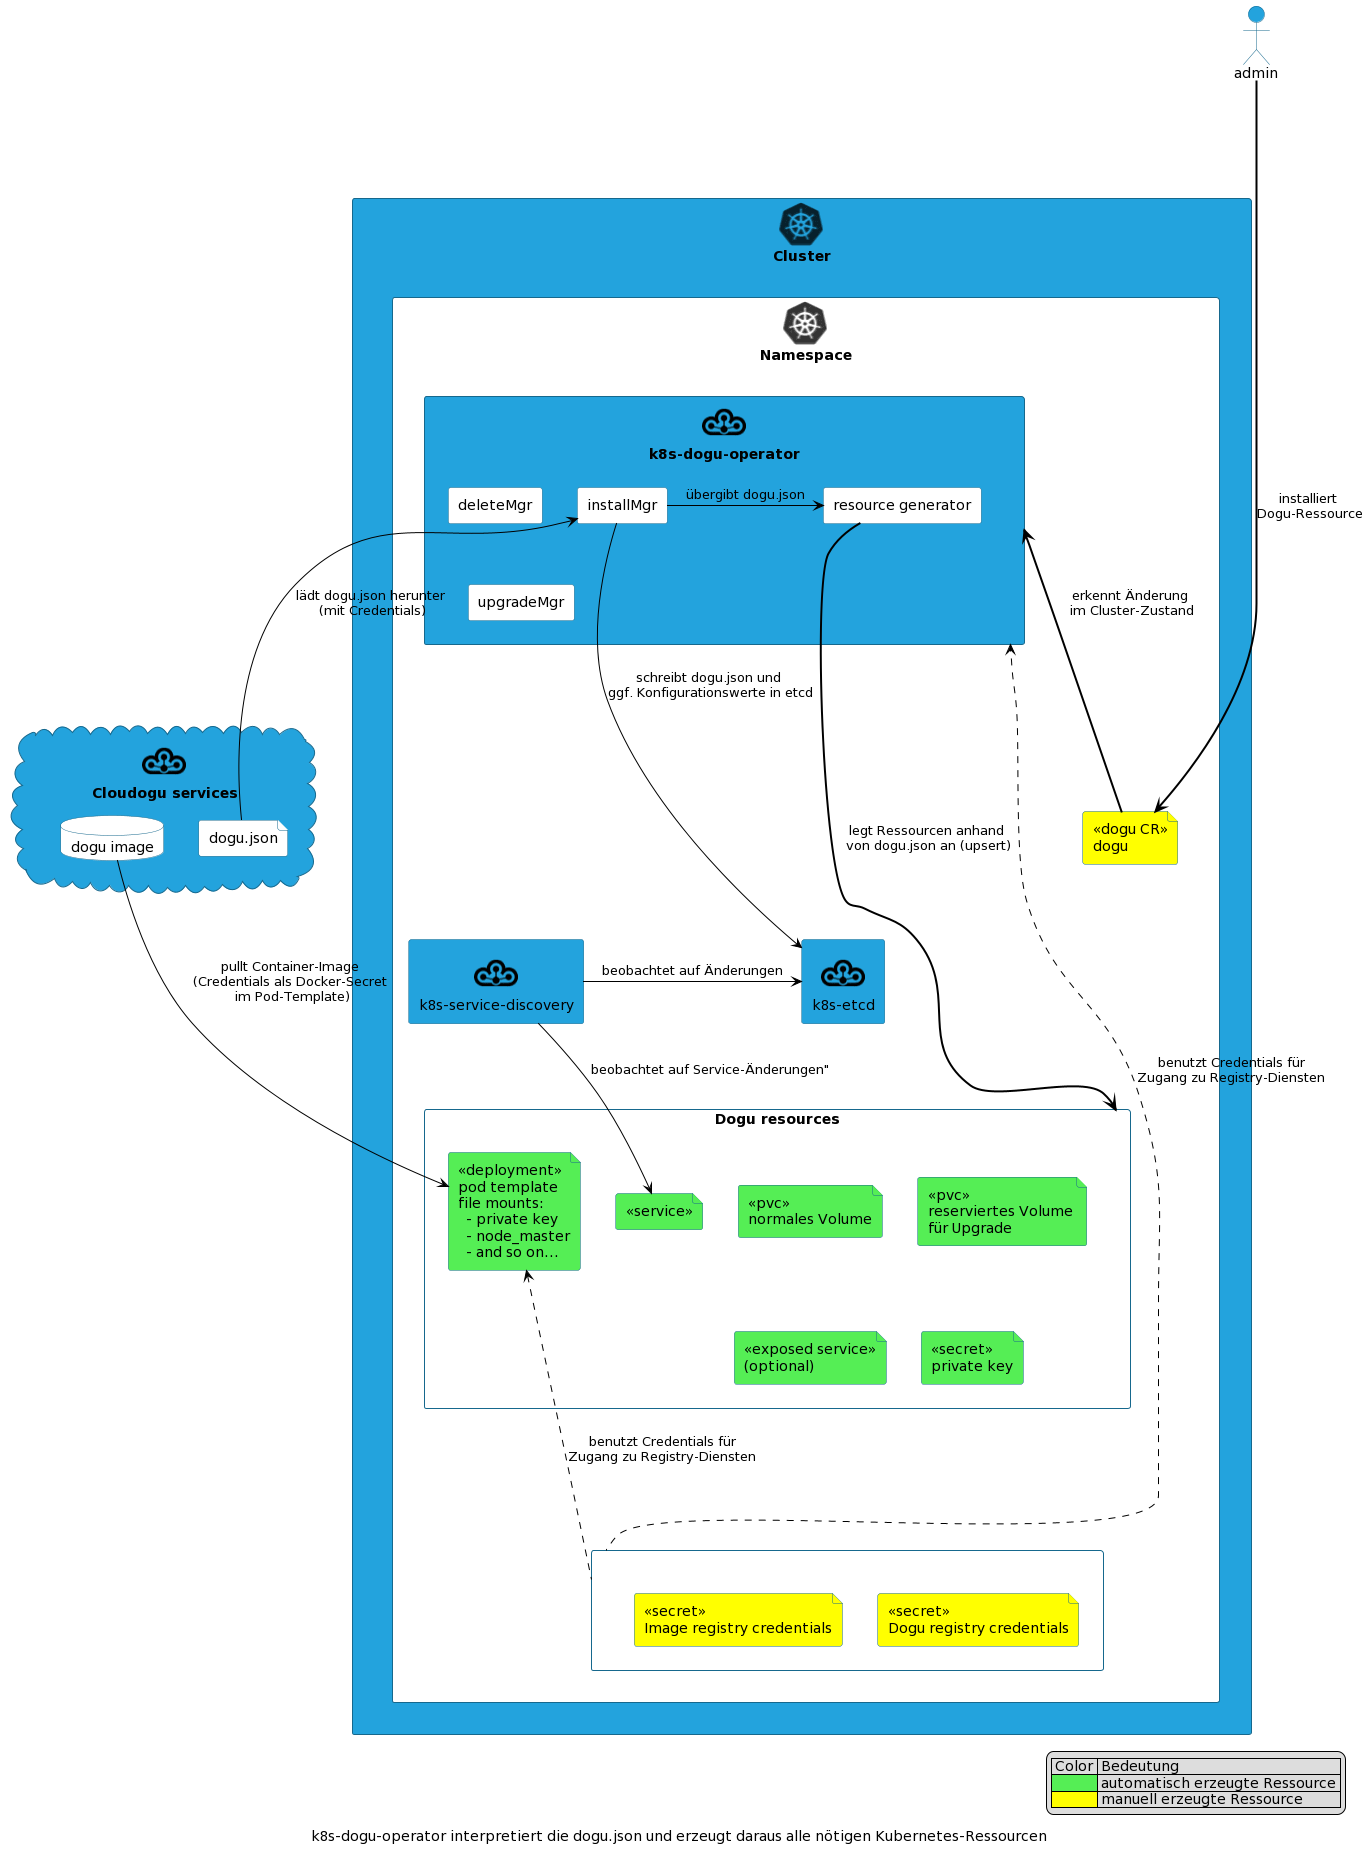
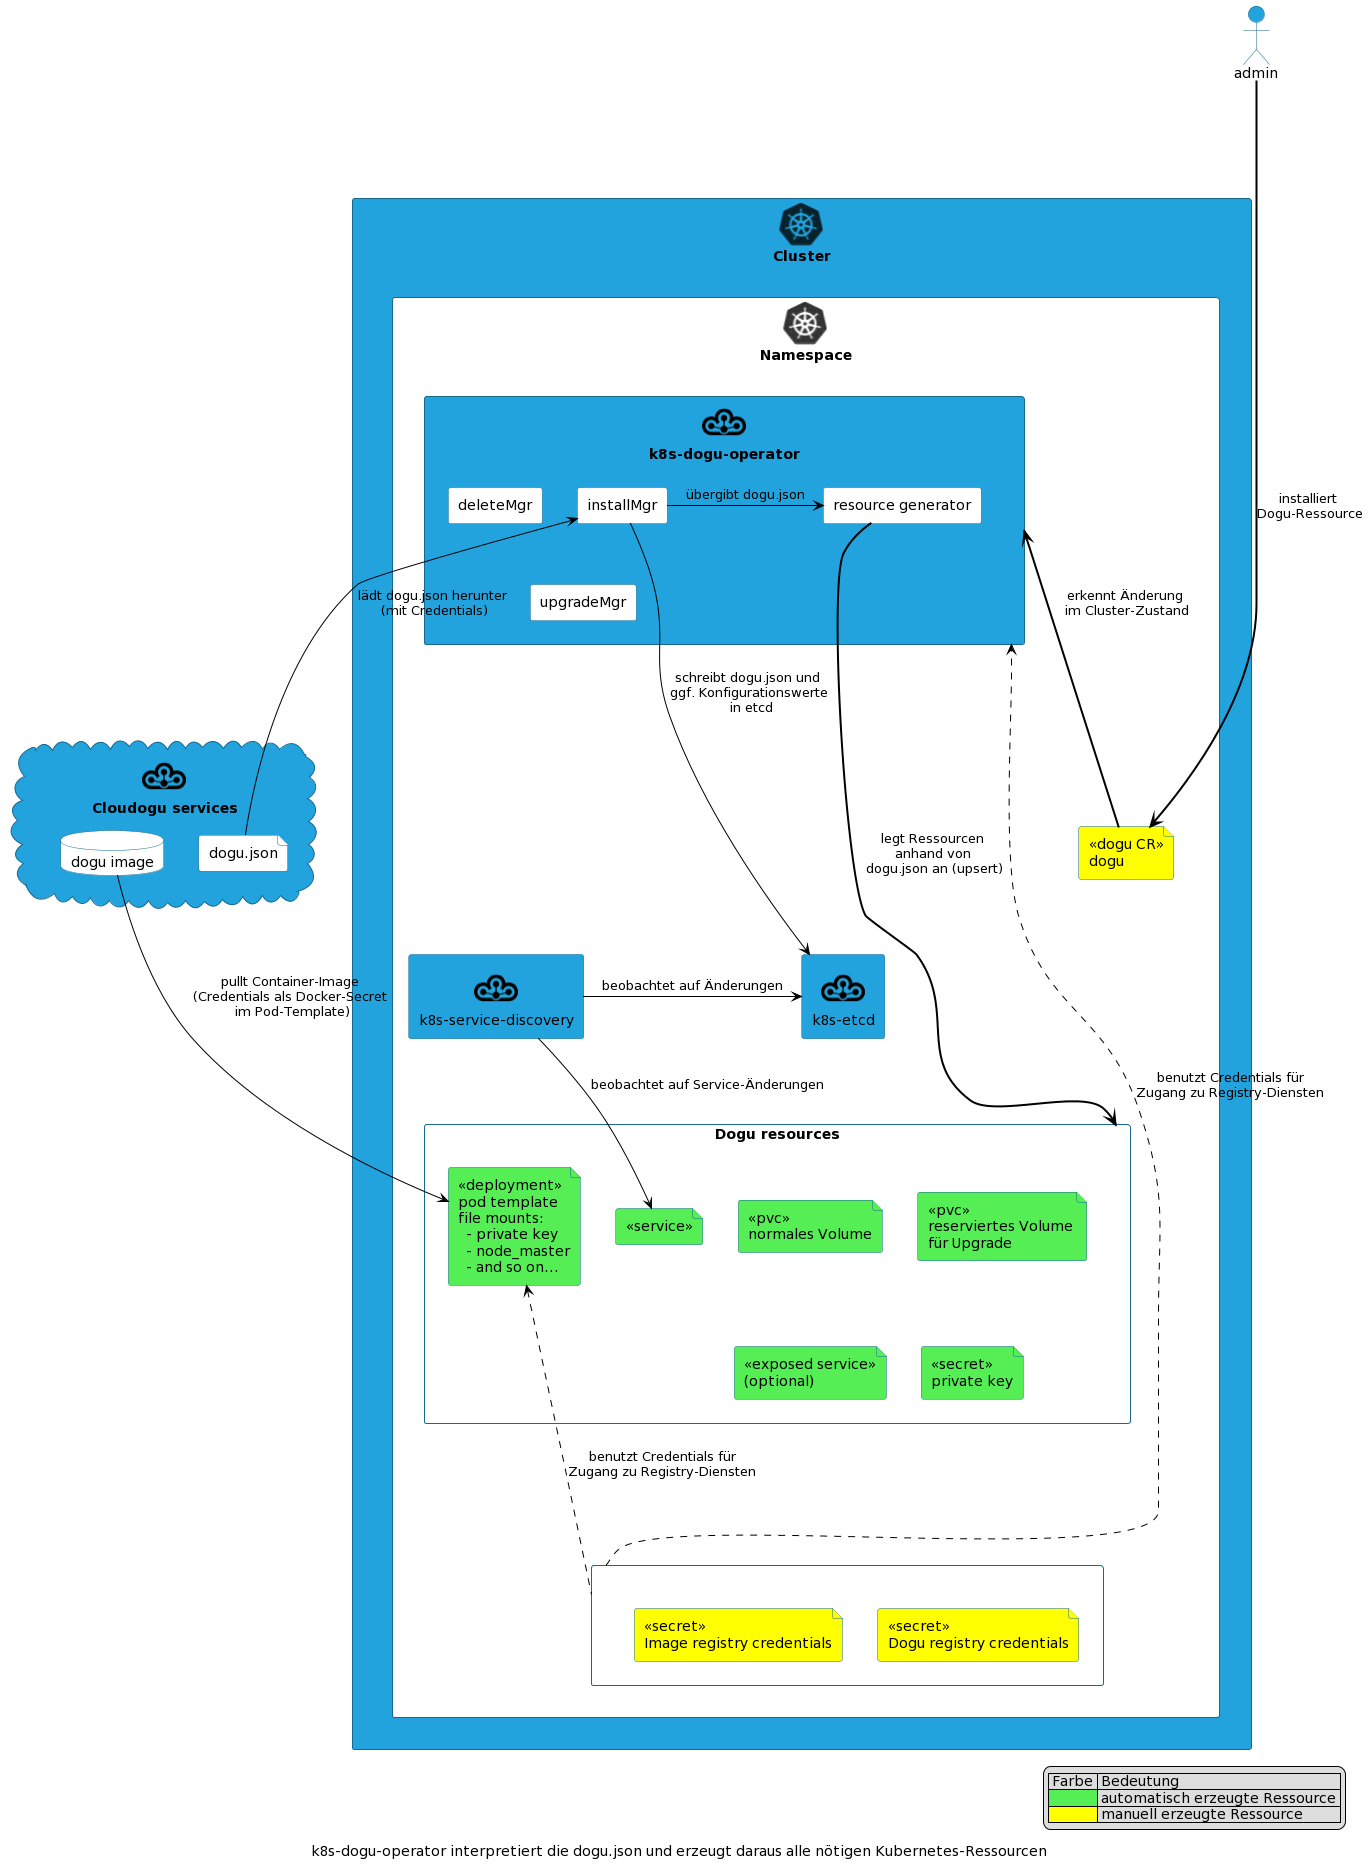
Translate architecture overview to english

diff --git a/docs/operations/k8s-ces-architecture-overview_en.md b/docs/operations/k8s-ces-architecture-overview_en.md
@@ -1,0 +1,89 @@
+# Cloudogu EcoSystem in a Kubernetes cluster.
+
+When developing the multi-node variant of the Cloudogu EcoSystem, Cloudogu basically ensures backwards compatibility with regard to customer data. This means that the majority of Dogus and its data can be run in the same way as in a [single-node Cloudogu EcoSystem](https://github.com/cloudogu/ecosystem).
+
+Since both platforms differ, especially in terms of their technical implementation, this means that the same functionalities in Kubernetes are implemented using platform-specific means. This document describes similarities and peculiarities between multi-node Cloudogu EcoSystems and the single-node variant.
+
+## Similarities
+
+The single- and multi-node variants of Cloudogu EcoSystems share these structural functionalities:
+
+- Dogu applications run as Docker containers
+- [`dogu.json`](https://github.com/cloudogu/dogu-development-docs/blob/main/docs/core/compendium_en.md) describes necessary dependencies and the inner structure of a Dogu application
+- The basic access to the local EcoSystem registry as well as its content structure does not change
+- The setup allows an "unattended" installation using [`setup.json`](https://docs.cloudogu.com/de/docs/system-components/ces-setup/operations/setup-json/)
+
+## Overview of Kubernetes-specific components
+
+The following Kubernetes components are used in the Kubernetes Cloudogu EcoSystem:
+
+- [k8s-ces-setup](https://github.com/cloudogu/k8s-ces-setup)
+  - the Kubernetes-specific variant of `ces-setup` provides a basic installation of a Cloudogu EcoSystem using the components mentioned here
+- [k8s-dogu-operator](https://github.com/cloudogu/k8s-dogu-operator)
+  - manages Dogus in terms of their installation, updating, uninstallation and some more
+- [k8s-service-discovery](https://github.com/cloudogu/k8s-service-discovery)
+  - manages Dogus in terms of their accessibility in the Warp menu and the Cloudogu EcoSystem Registry
+  - manages TLS certificates of the Cloudogu EcoSystem
+- [k8s-component-operator](https://github.com/cloudogu/k8s-component-operator)
+  - manages K8s CES components in terms of their installation, update and uninstallation.
+- [k8s-etcd](https://github.com/cloudogu/k8s-etcd)
+  - provides the local Cloudogu EcoSystem registry
+- [k8s-ces-control](https://github.com/cloudogu/k8s-ces-control)
+  - provides protected access to administration operations with the Admin-Dogu
+- [k8s-host-change](https://github.com/cloudogu/k8s-host-change)
+  - controls an orderly change of FQDN or public IP address of the cluster
+- [k8s-longhorn](https://github.com/cloudogu/k8s-longhorn)
+  - provides cross-node storage replication to all dogus with state
+
+![PlantUML diagram: Kubernetes cluster with a Dogu selection and important CES components](figures/k8s-ces-overview-components_en.png "Kubernetes cluster with a Dogu selection and important CES components").
+
+Conversely, this means that these components cannot be used in the single-node Cloudogu EcoSystem (see the "Operating System Packages" chapter).
+
+## Setup process in a Kubernetes cluster.
+
+Due to the peculiarities of Kubernetes, the setup process differs from that of the single-node EcoSystem. In summary, it is very resource-oriented and some things have to be deployed manually by the administrators. The documentation of [`k8s-ces-setup` describes](https://github.com/cloudogu/k8s-ces-setup/blob/develop/docs/operations/installation_guide_en.md) this in more detail.
+
+The following diagram illustrates the process and involved components:
+
+![PlantUML diagram: k8s-ces-setup initializes the cluster, enabling a Cloudogu EcoSystem in Kubernetes](figures/k8s-ces-overview-setup_en.png
+"k8s-ces-setup initializes the cluster, enabling a Cloudogu EcoSystem in Kubernetes.")
+
+## Installing Dogus in a Kubernetes cluster.
+
+Against the backdrop of Kubernetes, not only the setup process changes. Most of the internal processes are subject to significant changes compared to the single-node EcoSystem. Therefore, the Dogu client `cesapp` can no longer be merged with Kubernetes. In its place is now the `k8s-dogu-operator`.
+
+The process to a Dogu installation with its involved components is illustrated in the following diagram:
+
+[](figures/k8s-dogu-operator-dogu-installation_en.png)
+![PlantUML diagram: k8s-dogu-operator interprets the dogu.json and creates all necessary Kubernetes resources from it](figures/k8s-dogu-operator-dogu-installation_en.png
+"k8s-dogu-operator interprets dogu.json and creates all necessary Kubernetes resources from it.")
+
+## Overview of dogu-specific features in Kubernetes.
+
+These Kubernetes-specific dogus are used in the Kubernetes Cloudogu EcoSystem:
+
+- [k8s/nginx-ingress](https://github.com/cloudogu/nginx-ingress)
+- [k8s/nginx-static](https://github.com/cloudogu/nginx-static)
+
+In principle, all Dogus in a Cloudogu EcoSystem function in Kubernetes as they do in the single-node variant. However, the following exceptions exist.
+
+The dogu `official/nginx` is replaced by two dogus and one component in a Kubernetes environment: `k8s/nginx-ingress` and `k8s/nginx-static`. The reason for this is that several things are done simultaneously in Kubernetes that cannot be continued in this way in Kubernetes. In addition, there is the activity of an [ingress-controller](https://kubernetes.io/docs/concepts/services-networking/ingress-controllers/), which has no equivalent in a Docker-only world.
+
+The following table compares the functionalities and respective mapping components/dogus:
+
+| theme                   | K8s-CES               | conventional CES                                  |
+|-------------------------|-----------------------|---------------------------------------------------|
+| reverse proxy           | k8s/nginx-ingress     | official/nginx                                    |
+| Ingress Controller      | k8s/nginx-ingress     | -/-                                               |
+| HTTP Response Injection | k8s/nginx-ingress     | official/nginx                                    |
+| Static Content Hosting  | k8s/nginx-static      | official/nginx                                    |
+| Create Warp Menu        | k8s-service-discovery | official/nginx + official/registrator + ces-confd |
+| TLS-termination         | k8s/nginx-ingress     | official/nginx                                    |
+
+## Operating system packages
+
+The single-node variant of the Cloudogu EcoSystem is based on a _virtual machine_, so that function extensions are made there by means of own system packages. Well-known examples here are `cesapp` or `ces-setup`, which can be updated via the Debian package mechanism.
+
+The multi-node variant of the Cloudogu EcoSystem, on the other hand, is based on _Kubernetes clusters_. This circumstance complicates the general possibility of deploying OS packages on the individual Kubernetes nodes, as each cluster could be built differently.
+
+Therefore, it is **not intended** to apply Cloudogu operating system packages to a Kubernetes Cloudogu EcoSystem. In particular, this applies to the `packages` section of the [Blueprint Mechanism](https://docs.cloudogu.com/de/docs/system-components/cesapp/operations/blueprint_upgrade/#property-packages) to.
